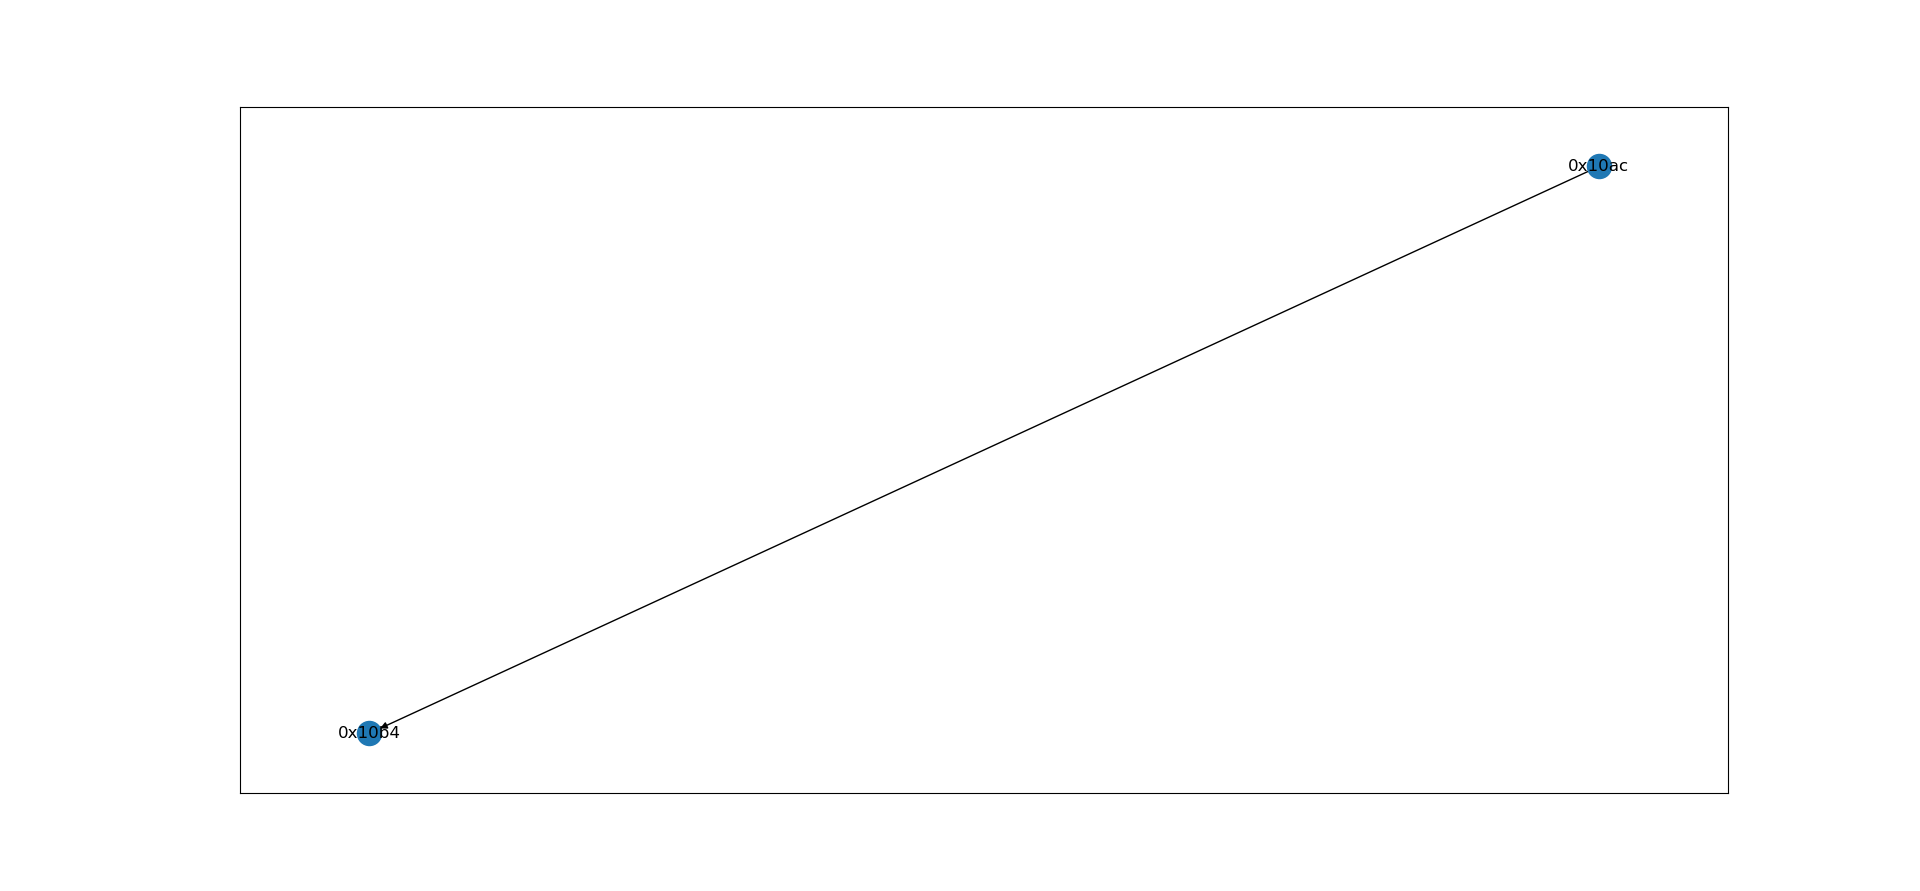
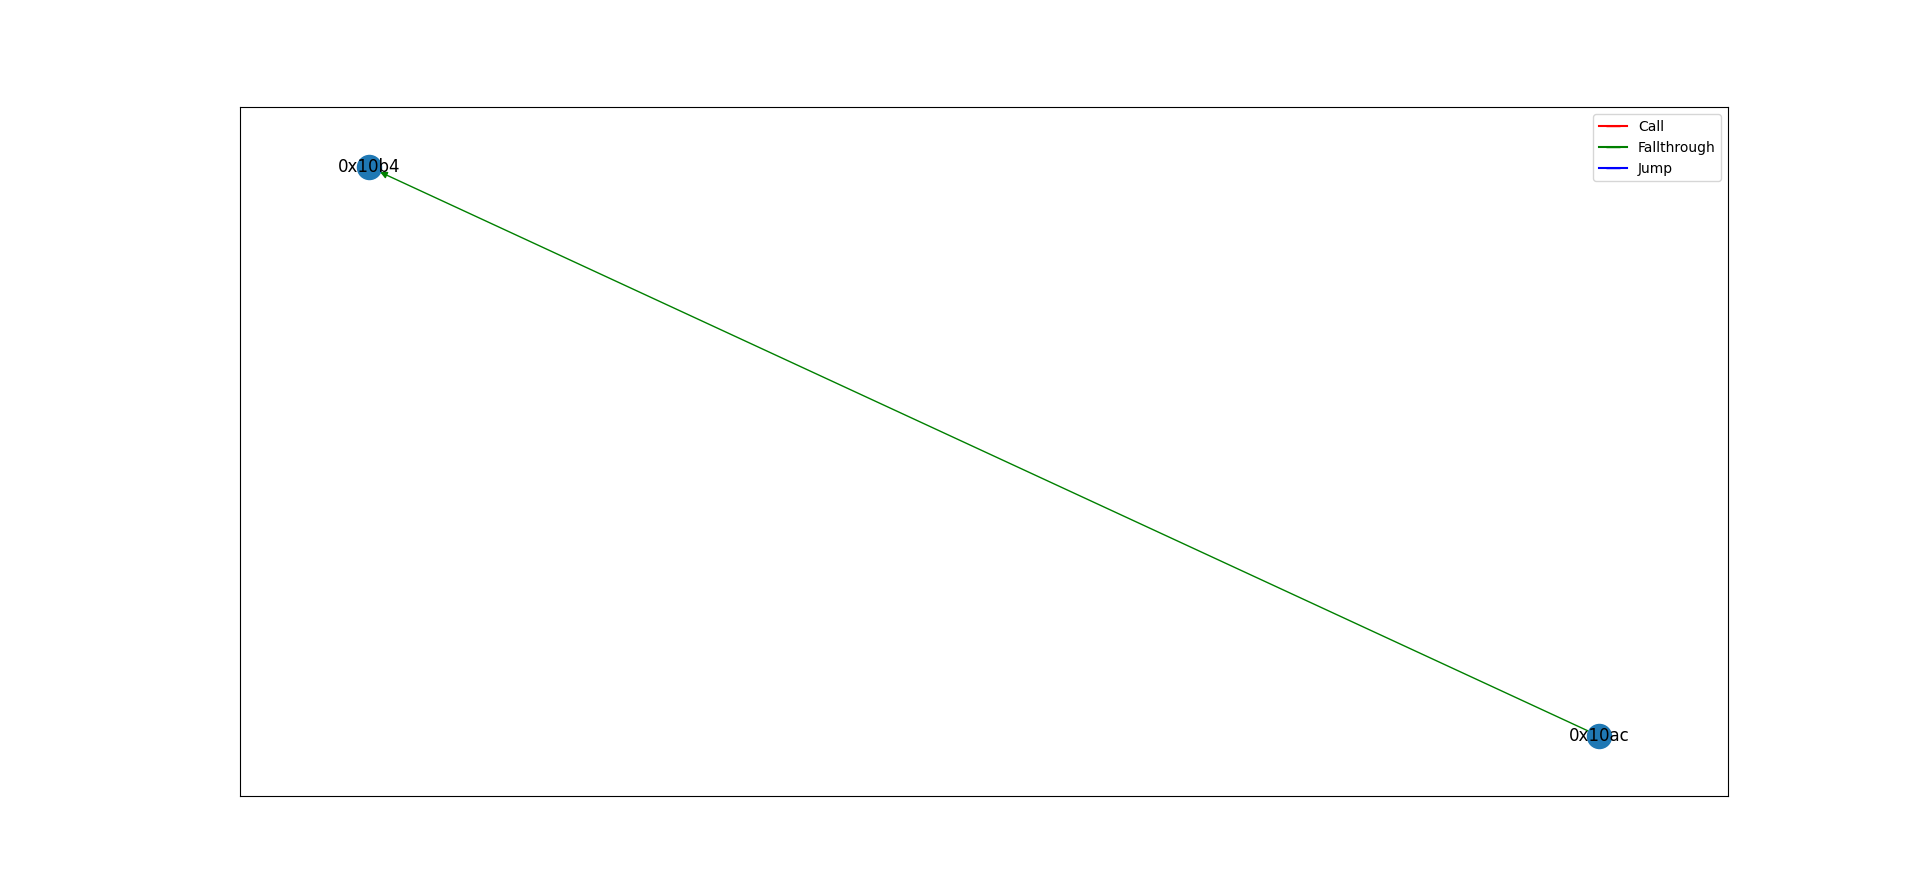
Included function for colorize the edges in the agreement graph in fullAnalysis, uploaded new agreement pngs

diff --git a/fullAnalysis.py b/fullAnalysis.py
@@ -93,9 +93,18 @@ def set_original_addresses(graph):
     return set_addr
 
 
+def color_edges_agreement(agreement, ida):
+    for edgeAgr in agreement.copy().edges():
+        for edgeIDA in ida.edges(data=True):
+            if edgeAgr[0] == edgeIDA[0] and edgeAgr[1] == edgeIDA[1]:
+                attr = ida.get_edge_data(edgeIDA[0], edgeIDA[1])
+                agreement.add_edge(edgeAgr[0], edgeAgr[1], **attr)
+    return agreement
+
+
 def purge_technique(graph):
-    min_addr = 0x105b
-    max_addr = 0x109b
+    min_addr = 0x108e
+    max_addr = 0x10bf
     for node in graph.copy():
         if node == 'UnresolvableCallTarget' or node == 'UnresolvableJumpTarget':
             graph.remove_node(node)
@@ -159,6 +168,7 @@ def RPA_check(graph):
     for node in list_nodes:
         if graph.nodes()[node]:
             for bytes in graph.nodes()[node]['bytes']:
+                #  ADD DWORD PTR [esp], xxx - MOV DWORD PTR [ebp+4],EAX (EBX, ECX)
                 if "83 04 24" in bytes or "89 45 04" in bytes or "89 5D 04" in bytes or "89 4D 04" in bytes:
                     print(f"{'In BB'} {node} {'there might be a RPA technique'}")
 
@@ -168,8 +178,10 @@ def ID_check(graph):
     for node in list_nodes:
         if graph.nodes()[node]:
             for bytes in graph.nodes()[node]['bytes']:
+                # JMP -1
                 if "EB FF" in bytes:
                     print(f"{'In BB'} {node} {'there might be a ID technique'}")
+                # JMP - JZ - JNZ
                 elif "EB" in bytes or "74" in bytes or "75" in bytes:
                     min_bb_addr = graph.nodes()[node]['addr'][0]
                     max_bb_addr = graph.nodes()[node]['addr'][-1]
@@ -183,11 +195,19 @@ def CJWCC_check(graph):
     for node in list_nodes:
         if graph.nodes()[node]:
             for bytes in graph.nodes()[node]['bytes']:
-                if "33 C0" in bytes or "33 DB" in bytes or "33 C9" in bytes or "33 D2" in bytes or "85 E4" in bytes or "85 F6" in bytes:
+                # XOR EAX, EAX (EBX, ECX, EDX)
+                if "33 C0" in bytes or "33 DB" in bytes or "33 C9" in bytes or "33 D2" in bytes: 
                     list_bytes = graph.nodes()[node]['bytes']
                     index = list_bytes.index(bytes)
                     if index < len(list_bytes) - 1:
                         if "74" in list_bytes[index+1] or "0F 84" in list_bytes[index+1] or "75" in list_bytes[index+1] or "0F 85" in list_bytes[index+1]:
+                            print(f"{'In BB'} {node} {'there might be a CJWCC technique'}")
+                # TEST ESP, ESP
+                if "85 E4" in bytes:
+                    list_bytes = graph.nodes()[node]['bytes']
+                    index = list_bytes.index(bytes)
+                    if index < len(list_bytes) - 1:
+                        if "75" in list_bytes[index+1] or "0F 85" in list_bytes[index+1]:
                             print(f"{'In BB'} {node} {'there might be a CJWCC technique'}")
 
 
@@ -196,6 +216,7 @@ def CJWST_check(graph):
     for node in list_nodes:
         if graph.nodes()[node]:
             bytes = graph.nodes()[node]['bytes'][-1]
+            # JZ
             if "74" in bytes or "0F 84" in bytes:
                 index = list_nodes.index(node)
                 target = graph.nodes()[node]['edges'][0]
@@ -203,6 +224,7 @@ def CJWST_check(graph):
                     next = list_nodes[index + 1]
                     if graph.nodes()[next]:
                         bytes = graph.nodes()[next]['bytes'][0]
+                        # JNZ
                         if "75" in bytes or "0F 85" in bytes:
                             if target == graph.nodes()[next]['edges'][0]:
                                 print(f"{'In BBs'} {node} {next} {'there might be a CJWST technique'}")
@@ -306,6 +328,7 @@ def main():
                     common_edges.remove(edge)
     
     agreement_graph = nx.DiGraph(common_edges)
+    agreement_graph = color_edges_agreement(agreement_graph, ida_purged)
     angr_diff = diff_graph_construction(agreement_graph, angr_purged)
     ghidra_diff = diff_graph_construction(agreement_graph, ghidra_purged)
     ida_diff = diff_graph_construction(agreement_graph, ida_purged)

diff --git a/printGraphs.py b/printGraphs.py
@@ -14,10 +14,8 @@ def print_graph(graph, legend_elements):
 def main():
     pickles_folder = "Pickles/Complete/"
     assert pickles_folder
-    agreement = pickle.load(open(pickles_folder + "agreement.p", "rb"))
-    nx.draw_networkx(agreement, with_labels=True)
-    plt.show()
 
+    agreement = pickle.load(open(pickles_folder + "agreement.p", "rb"))
     angr = pickle.load(open(pickles_folder + "angr_diff.p", "rb"))
     ghidra = pickle.load(open(pickles_folder + "ghidra_diff.p", "rb"))
     ida = pickle.load(open(pickles_folder + "ida_diff.p", "rb"))
@@ -29,7 +27,7 @@ def main():
         Line2D([0], [0], marker='_', color='b', label='Jump', markerfacecolor='b', markersize=10)
     ]
 
-    for graph in [angr, ghidra, ida, radare]:
+    for graph in [agreement, angr, ghidra, ida, radare]:
         print_graph(graph, legend_elements)
 
 

diff --git a/Pickles/ConditionalJumpsWithSameTarget/differences.md b/Pickles/ConditionalJumpsWithSameTarget/differences.md
@@ -11,25 +11,25 @@ Pin trace addresses: 546
 Angr is False - addresses: 1126
 Ghidra is False - addresses: 1120
 Ida is False - addresses: 1130
-Radare is False - addresses: 1018
+Radare is False - addresses: 1020
 
 
 Addresses present on the Pin trace that are missing in Angr: 2
 {'0x1052', '0x1055'}
 Addresses present on the Pin trace that are missing in Ghidra: 12
-{'0x1260', '0x1255', '0x1055', '0x1250', '0x19dc', '0x19e7', '0x1261', '0x19e1', '0x1d72', '0x125a', '0x1052', '0x125b'}
+{'0x1260', '0x125b', '0x1261', '0x125a', '0x19dc', '0x19e7', '0x1055', '0x1250', '0x1052', '0x1255', '0x1d72', '0x19e1'}
 Addresses present on the Pin trace that are missing in Ida: 2
 {'0x1052', '0x1055'}
 Addresses present on the Pin trace that are missing in Radare: 65
-{'0x123f', '0x11cf', '0x11c8', '0x1222', '0x1212', '0x11b0', '0x11e9', '0x11f9', '0x11cb', '0x1261', '0x125a', '0x1236', '0x11be', '0x122c', '0x1217', '0x123b', '0x1231', '0x11d9', '0x1a74', '0x11c9', '0x11c0', '0x11aa', '0x121c', '0x122a', '0x11b5', '0x11d4', '0x1a7e', '0x11de', '0x11a0', '0x11eb', '0x1a9d', '0x1a9c', '0x123d', '0x121d', '0x119d', '0x11f4', '0x1260', '0x11a5', '0x1a9b', '0x1a72', '0x1250', '0x124d', '0x1a73', '0x1a79', '0x1a80', '0x11ab', '0x125b', '0x11c5', '0x11b7', '0x11e4', '0x120d', '0x1208', '0x1255', '0x1248', '0x11bc', '0x124f', '0x11ef', '0x1223', '0x1228', '0x119e', '0x11e3', '0x11fb', '0x11cd', '0x11ed', '0x11ea'}
+{'0x1a80', '0x11aa', '0x1236', '0x1248', '0x124d', '0x1a79', '0x1222', '0x11ef', '0x1212', '0x1250', '0x1a74', '0x1a9b', '0x11cb', '0x11c8', '0x1217', '0x11de', '0x121d', '0x1260', '0x11c5', '0x1a72', '0x1231', '0x11a5', '0x11be', '0x11cf', '0x122a', '0x11f9', '0x123b', '0x122c', '0x1255', '0x1261', '0x11d9', '0x123d', '0x11fb', '0x11cd', '0x125b', '0x11f4', '0x11ab', '0x125a', '0x11b5', '0x11c0', '0x1a73', '0x11ed', '0x119e', '0x1a9c', '0x11b7', '0x1a9d', '0x11b0', '0x123f', '0x11e4', '0x11e9', '0x1a7e', '0x1228', '0x11a0', '0x124f', '0x11e3', '0x11d4', '0x11c9', '0x1223', '0x119d', '0x11ea', '0x11bc', '0x121c', '0x120d', '0x1208', '0x11eb'}
 
 
 ## Attributes comparison on function containing the technique
 
 
 Angr
-nodes_count 8
-edges_count 8
+nodes_count 12
+edges_count 12
 func_beg_count 1
 dir_call_count 3
 indir_call_count 1
@@ -39,8 +39,8 @@ indir_jump_count 0
 ret_count 1
 
 Ghidra
-nodes_count 8
-edges_count 8
+nodes_count 12
+edges_count 12
 func_beg_count 1
 dir_call_count 3
 indir_call_count 1
@@ -50,8 +50,8 @@ indir_jump_count 0
 ret_count 1
 
 Ida
-nodes_count 8
-edges_count 8
+nodes_count 12
+edges_count 12
 func_beg_count 2
 dir_call_count 3
 indir_call_count 1
@@ -61,8 +61,8 @@ indir_jump_count 0
 ret_count 1
 
 Radare
-nodes_count 8
-edges_count 9
+nodes_count 13
+edges_count 14
 func_beg_count 1
 dir_call_count 3
 indir_call_count 1
@@ -75,66 +75,66 @@ ret_count 1
 
 
 Angr vs Ghidra 1.0
-Angr vs Radare 0.4
+Angr vs Radare 0.6666666666666666
 Angr vs Ida 1.0
 
 
-Ghidra vs Radare 0.4
+Ghidra vs Radare 0.6666666666666666
 Ghidra vs Angr 1.0
 Ghidra vs Ida 1.0
 
 
 Ida vs Ghidra 1.0
 Ida vs Angr 1.0
-Ida vs Radare 0.4
+Ida vs Radare 0.6666666666666666
 
 
-Radare vs Ghidra 0.4
-Radare vs Angr 0.4
-Radare vs Ida 0.4
+Radare vs Ghidra 0.6666666666666666
+Radare vs Angr 0.6666666666666666
+Radare vs Ida 0.6666666666666666
 
 
 ## Jaccard similarity check on edges
 
 
 Angr vs Ghidra 1.0
-Angr vs Radare 0.4
+Angr vs Radare 0.6666666666666666
 Angr vs Ida 1.0
 
 
-Ghidra vs Radare 0.4
+Ghidra vs Radare 0.6666666666666666
 Ghidra vs Angr 1.0
 Ghidra vs Ida 1.0
 
 
 Ida vs Ghidra 1.0
 Ida vs Angr 1.0
-Ida vs Radare 0.4
+Ida vs Radare 0.6666666666666666
 
 
-Radare vs Ghidra 0.4
-Radare vs Angr 0.4
-Radare vs Ida 0.4
+Radare vs Ghidra 0.6666666666666666
+Radare vs Angr 0.6666666666666666
+Radare vs Ida 0.6666666666666666
 
 
 ## Graph edit distance check on differences subgraphs
 
 
-Ghidra vs radare 4.0
+Ghidra vs radare 6.0
 Ghidra vs angr 0.0
 Ghidra vs ida 0.0
 
 
-Radare vs ghidra 4.0
-Radare vs angr 4.0
-Radare vs ida 4.0
+Radare vs ghidra 6.0
+Radare vs angr 6.0
+Radare vs ida 6.0
 
 
 Angr vs ghidra 0.0
-Angr vs radare 4.0
+Angr vs radare 6.0
 Angr vs ida 0.0
 
 
 Ida vs ghidra 0.0
-Ida vs radare 4.0
+Ida vs radare 6.0
 Ida vs angr 0.0
